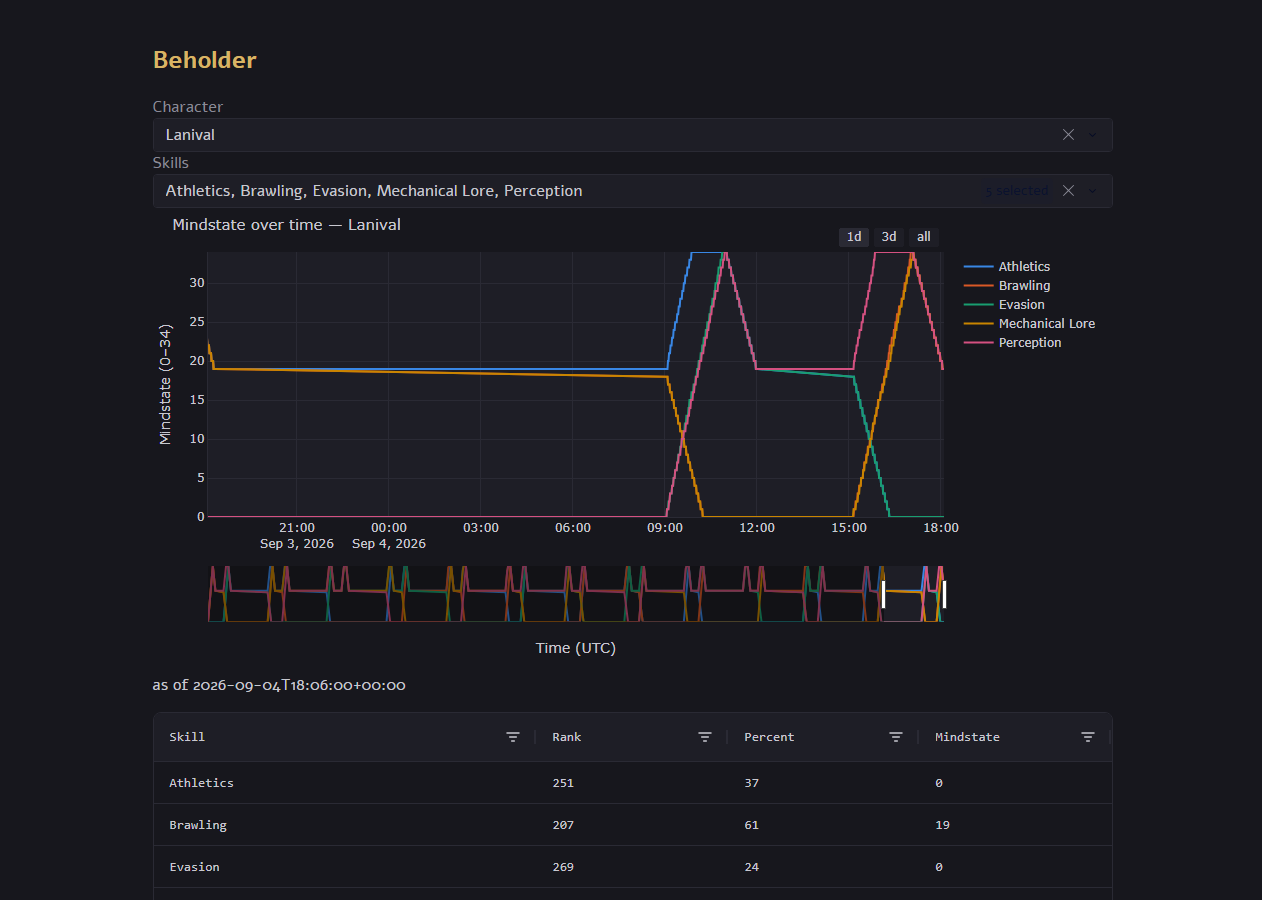
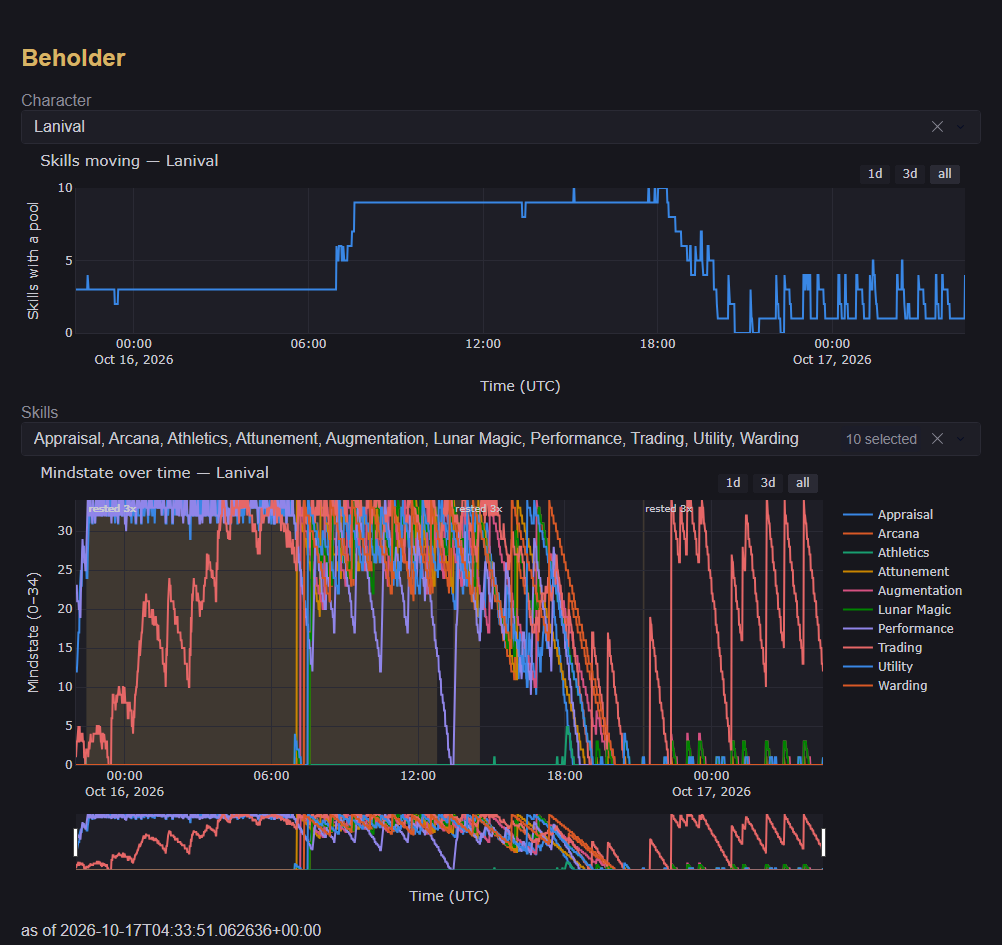
docs(readme): a fresh Beholder screenshot; the client section cut short
The Beholder image was September's synthetic day, with the table cut
off mid-row. It is now a Trader's day and a half from the history,
renamed to the synthetic cast's Lanival: the skills-moving chart and
the mindstate plot with its rested windows.

The client section's three dense paragraphs become a dock list, one
settings line and a table of the main scripts; the highlights file
moves to running.md's settings section. learnings.md records the
screenshot that went to the wrong image first.

diff --git a/README.md b/README.md
@@ -37,20 +37,28 @@ powershell -ExecutionPolicy Bypass -File tools/install_shortcut.ps1
 
 One session per character, any number of windows attached to it, lich-style. The session logs in, owns the game socket, serves parsed text to every attached frontend over localhost, and hosts the script engine: `;list`, `;run <name>`, `;stop <name>`, `;help <name>`. A script is a `main(s)` in [scripts/](scripts/), reloaded from disk every time it starts; [docs/scripting.md](docs/scripting.md) is the guide.
 
-The window shows the game's own styling (amber room names, blue speech, bold alerts, clickable command links), adds the map's room id after each room name — `[The Crossing, Town Green] (1420)`, the id `;go2` takes; a setting — and keeps the rest in docks:
+The window shows the game's own styling and clickable links, puts the map's room id after each room name (`[The Crossing, Town Green] (1420)`, the id `;go2` takes), and keeps the rest in docks:
 
-- **Experience** — a live skill dashboard, rank and percent and mindstate per learning skill.
-- **Map** — the community map drawn around you as you move; click a room to walk there with `;go2`.
-- **Injuries** — the game's own injuries panel as a body of badges: each part lights amber for a wound or purple for a scar, with the level, the moment it changes, no HEALTH needed.
-- **Spells** — the spells running with their time left counting down by the second, and the one you have prepared.
-- **Compass, Clocks, Thoughts, Arrivals, Deaths, Group, Talk, Attention** — exits you can click, Elanthian date and moons beside Stockholm and Chicago, the game's side streams each in a window of their own (Talk: every say, yell and whisper, which the story shows too, each stamped with the time and the room on hover; a dock's right-click menu turns the timestamps on or off), and what `;sentinel` flags as new or addressed at you while you are away. Arrivals fills only once the character's `FLAG LOGON ON` is set in the game (off by default, per character).
-- **Around the input line** — a dark command line with an amber `>` prompt and a border that lights when it has the focus, roundtime and casttime counting down from the game's own timestamps, vitals bars, a status strip with posture, stunned, bleeding, hidden and a red DEAD, and shell-style command history.
+- **Experience** — rank, percent and mindstate of each learning skill.
+- **Map** — the community map around you; click a room to walk there.
+- **Injuries** — wounds and scars on a body diagram, live.
+- **Spells** — the active spells with their time left, and the one prepared.
+- **Compass, Clocks, Thoughts, Arrivals, Deaths, Group, Talk** — clickable exits, the Elanthian calendar, the game's side streams.
+- **Input line** — roundtime and casttime countdowns, vitals, posture and status, command history.
 
-Any dock folds to its title bar and back — the ▾ button on the title, a double-click on it, or Ctrl+Shift+D on the dock holding the focus — keeping its place in the layout; docks tabbed together fold as one, and the fold is remembered with the layout per character.
+A dock folds to its title bar with its ▾ button. File → Settings covers the font, the autostarts and the room ids. Scripts stow items, never drop them.
 
-File → Settings covers the font, the autostarts, the room ids, and whether closing the window quits the game. Highlight patterns of your own live in `~/.revenant/highlights.json`; three soft ones ship by default (the combat balance line, the roundtime line and the spell-ready lines), and an entry `{"disable": "balance"}` in that file turns one off. Scripts never drop an item; the only exceptions are foraged grass, grass rope and whatever `droppable` in `~/.revenant/settings.json` names; `;boxes` puts a profile's `loot_ignore` items in a trash bin, never on the floor.
+`;help` lists every bundled script with its manual. The main ones:
 
-Bundled scripts: `;go2` travel on the community map, `;xp` and `;sheet` history logging, `;deathwatch` for unattended deaths, `;tend` for bleeders, `;heal` (eat the herb that treats each HEALTH wound, buying what is missing), `;empath` and `;plant` (an Empath's healing and vela'tohr plant), `;clock` for the Elanthian calendar, `;circle` for what gates your next circle, `;athletics`, `;attune` (power walking), `;forage` (COLLECT rock until Outdoorsmanship locks, Perception riding along), `;research` (a caster's RESEARCH projects under Gauge Flow, a Barbarian's MEDITATE RESEARCH, until Attunement, Augmentation, Utility and Warding lock), `;tdp`, `;debt`, `;skins` (sell the worn skin bundle at the nearest tannery), `;repair` (appraise your gear and have the worn-down pieces mended at the nearest repair shop), `;enc`, `;status`, `;favors`, `;wealth`, `;survey`, `;hunt` (a hunting loop driven by a per-character profile, File → Character Profile…: weapon and stance, skins onto a worn bundle, buffs kept up and recast to train a magic skill, health and wound floors), `;train` (the orchestrator: runs the trainers a per-character plan names, File → Training Plan…, until each skill's mindstate fills, then rests in a safe room until it drains), `;trade` (a Trader's caravan contracts in Zoluren and Ilithi and to Riverhaven, each logged to history.db), `;commodities` (a Trader's commodity pits: every board logged, a good bought where it is cheap and sold where it is dear), `;kiosk` (a Trader's Prosperity in Absentia kiosk kept cast, priced and funded, what it buys resold with Finesse up), `;dropbox` (Dropbox sync, File → Settings: every machine's logs in Dropbox, filed by character), and `;lnet`. `;help` lists them with their manuals.
+| Script | What it does |
+|---|---|
+| `;go2` | walks to a room on the community map |
+| `;train` | runs the trainers a per-character plan names, then rests while the skills drain |
+| `;hunt` | hunts from a per-character profile (File → Character Profile…) |
+| `;heal`, `;tend`, `;empath` | treats wounds and bleeding; an Empath's healing |
+| `;deathwatch` | watches for a death while you are away |
+| `;trade`, `;commodities`, `;kiosk` | a Trader's caravans, commodity pits and kiosk |
+| `;xp`, `;sheet`, `;wealth` | log experience, the character sheet and money to history.db |
 
 ## Driven by an LLM
 
@@ -64,7 +72,7 @@ It is set up for [Claude Code](https://claude.com/claude-code): [.claude/CLAUDE.
 
 ## Beholder
 
-![The beholder dashboard: a character dropdown and a multi-select of skills, a mindstate-over-time plot for one day showing two training sessions filling to 34 and draining between pulses, a range slider beneath it, and a table of each skill's current rank, percent and mindstate](docs/beholder.png)
+![The beholder dashboard over a Trader's day and a half: the character dropdown; the skills-moving chart, three skills overnight, nine or ten through the morning's research and trading, then Trading alone; the skills multi-select with ten chosen; and the mindstate-over-time plot of those ten, the rested-experience windows shaded, Trading filling and draining on its own at the end](docs/beholder.png?v=2)
 
 A browser dashboard over the history every session logs to `~/.revenant/history.db`: mindstate and rank over time per character and skill, plus the sheet snapshots (stats, circle, wealth, inventory) and the circle gates. View → Experience History embeds it in the client, `;beholder` opens it in a browser, `uv run beholder` runs it by hand. See [beholder/README.md](beholder/README.md).
 

diff --git a/.claude/learnings.md b/.claude/learnings.md
@@ -406,6 +406,7 @@ lessons the code and docs cannot carry themselves.
   by polling its state over the wire and reading each debug log from its last
   byte offset in a small Python loop.
 - Never park a character Claude is driving in a hunting ground, not even for a minute: no script fights for an idle character there. Two characters meeting for a GIVE meet in a safe room (a town square, a customs gate, a guild the visitor may enter). On 2026-09-26 a low-circle character walked to the goblin ground to take coin from the operator's other character, stood idle among three musk hogs and four goblins waiting for the GIVE, and died there in five minutes with 0 favors — the Northeast Customs one step away was the right room. Check a meeting room's `room_creatures` before sending anyone there.
+- The README has several screenshots: "the screenshot needs a refresh" named none, an agent took it for docs/screenshot.png, and a session and a handoff went to the wrong image while the operator meant the Beholder one (2026-10-17). Ask which image, or read the operator's open browser tab (its URL anchor names the section), before capturing anything.
 - A guild's ground can refuse another guild outright ("Barbarians are not allowed to go there." on the trail to the Paladins' Guild): a route to one character's guild room is no meeting point for a character of another guild.
 
 - Since #407 every script asks the game through `client/game/act.py`

diff --git a/docs/running.md b/docs/running.md
@@ -59,6 +59,8 @@ It never replies for you.
 
 File → Settings: fonts, autostarted scripts, whether closing quits, the idle-warning answer.
 
+Highlights of your own go in `~/.revenant/highlights.json`; an entry `{"disable": "balance"}` there turns off a default one (the balance, roundtime and spell-ready lines).
+
 Logs are under `~/.revenant/logs/`: `game-<Name>-*.log` has what the game sent, `revenant_client-<Name>-*.log` what the scripts did.
 
 ## Several machines: Dropbox sync
